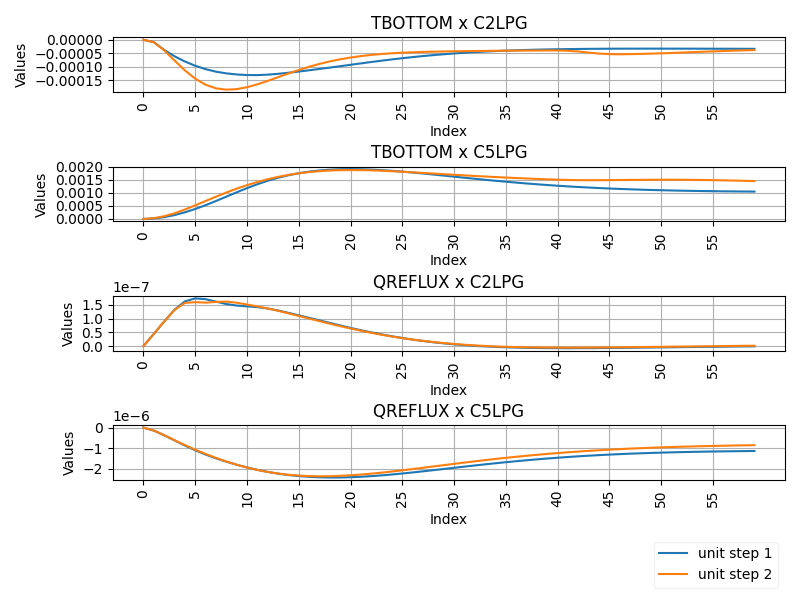
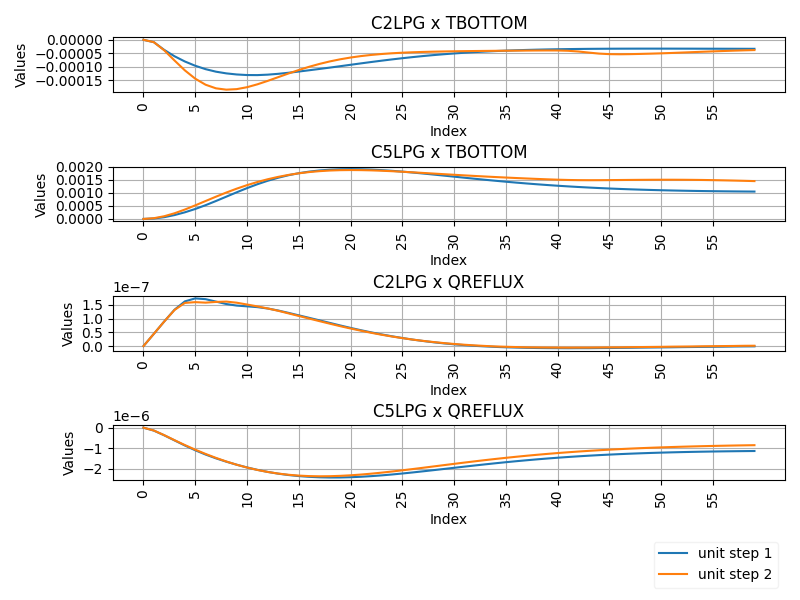
exporting Gstep

diff --git a/LPGdebutanizerUnitStepCalc.py b/LPGdebutanizerUnitStepCalc.py
@@ -1,6 +1,7 @@
 import pandas as pd
 import matplotlib.pyplot as plt
 from src.StepCalc import *
+import joblib
 
 NUMBER_OF_INPUTS = 2
 RESPONSE_SIZE = 60
@@ -36,3 +37,11 @@ plot_and_save(dataframe1=df_responses1,
               fig_name='LPGdebutanizerUnitSteps',
               label1='unit step 1',
               label2='unit step 2')
+
+G11 = df_responses1['C2LPG x TBOTTOM'].to_numpy()
+G12 = df_responses1['C2LPG x QREFLUX'].to_numpy()
+G21 = df_responses1['C5LPG x TBOTTOM'].to_numpy()
+G22 = df_responses1['C5LPG x QREFLUX'].to_numpy()
+
+Gstep = [[G11, G12], [G21, G22]]
+joblib.dump(Gstep, 'outputs/Gstep.joblib')

diff --git a/src/StepCalc.py b/src/StepCalc.py
@@ -32,7 +32,7 @@ def get_unit_step_responses(df_u, df_y, step_count, response_size):
             step_responses.reset_index(drop=True, inplace=True)
 
             # Rename the columns of the response DataFrame
-            step_responses.columns = [f"{column} x {col}" for col in step_responses.columns]
+            step_responses.columns = [f"{col} x {column}" for col in step_responses.columns]
 
             # Divide each value in the response column by the amplitude of the step
             step_responses = step_responses / step_amplitude
